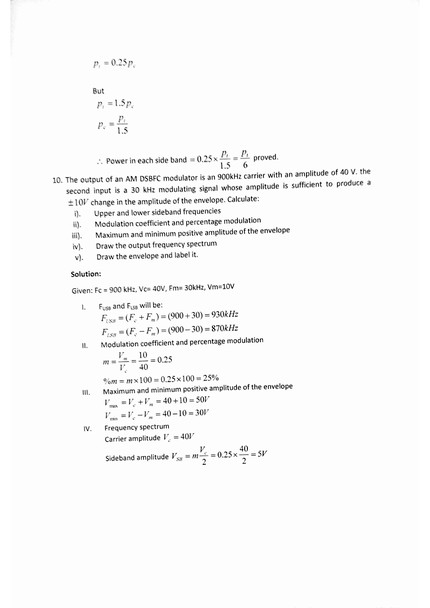
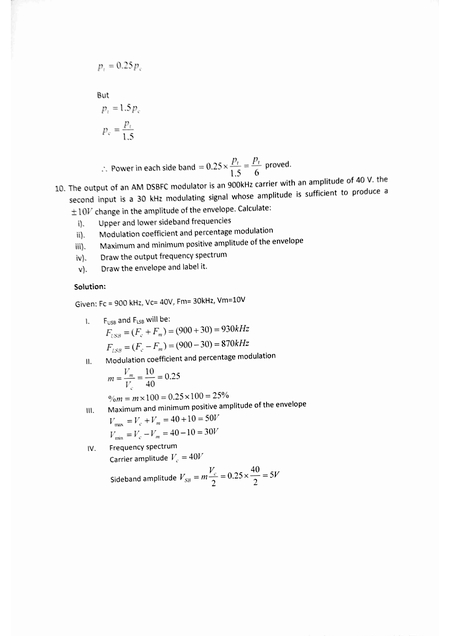
resizing

diff --git a/pdf-gen.py b/pdf-gen.py
@@ -20,12 +20,12 @@ def pdf_to_jpeg_with_enhancements(pdf_path, output_dir):
         enhanced_image = enhance_image(page)
 
         try:
-            enhanced_image.save(output_file, 'JPEG', optimize=True, quality=90, progressive=True)
+            enhanced_image.save(output_file, 'JPEG', optimize=True, quality=100, progressive=True)
             print(f'Saved: {output_file}')
         except Exception as e:
             print(f"Error saving image: {e}")
 
-def enhance_image(img, new_width=430):
+def enhance_image(img, new_width=450):
     img = img.convert('RGB')
 
     # Resize while maintaining aspect ratio
@@ -41,7 +41,7 @@ def enhance_image(img, new_width=430):
     return img
 
 if __name__ == '__main__':
-    pdf_path = "../books/400 Level/EEE 404 Test (Big Alabo).pdf"
+    pdf_path = "../books/400 Level/EEE 403 practice examples.pdf"
     pdf_name = os.path.splitext(os.path.basename(pdf_path))[0].replace(" ", "_")  # Make it filename-safe
     image_output_dir = f"pages/{pdf_name}"
 
